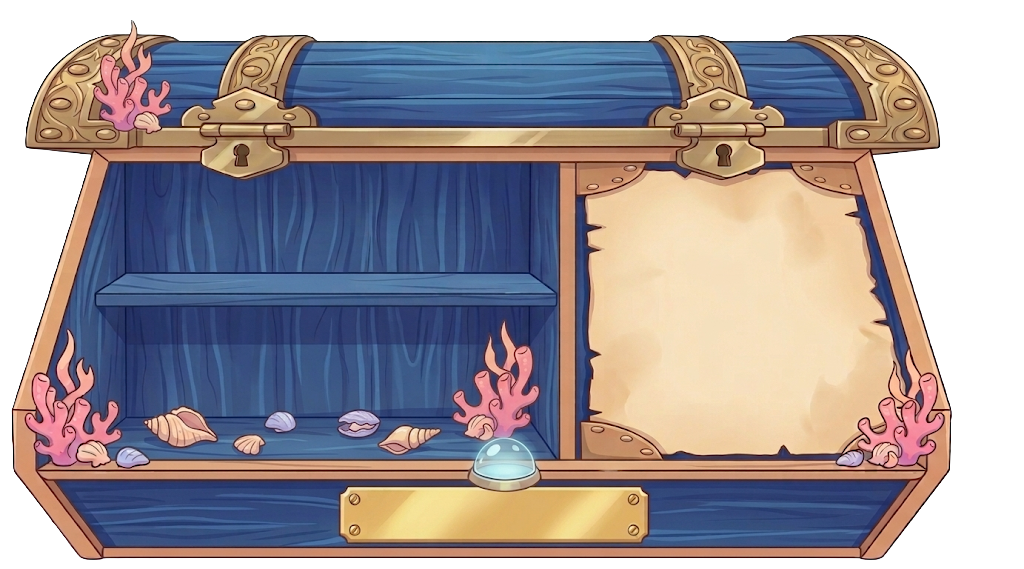
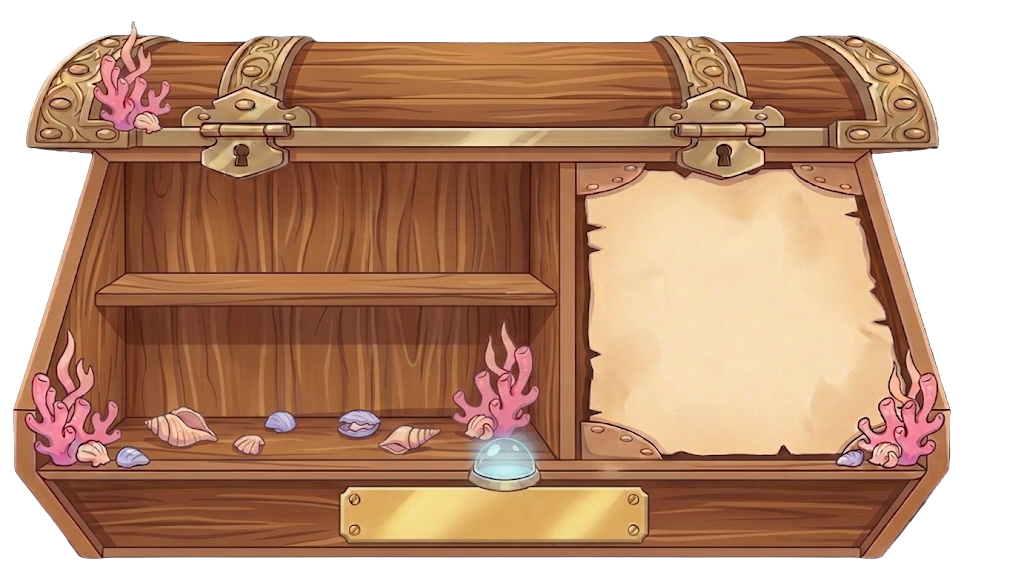
Changed inventory panel color

diff --git a/Assets/Scripts/InventoryManager.cs b/Assets/Scripts/InventoryManager.cs
@@ -180,15 +180,15 @@ public class InventoryManager : MonoBehaviour
       else
          CraftWindow.gameObject.SetActive(false);
 
-      pearlCount         = 5000;
-      oreCount           = 5000;
-      crudeToolCount     = 5000;
-      harpoonCount       = 5000;
-      patchKitCount      = 5000;
-      pressureValveCount = 5000;
-      divingBellCount    = 5000;
-      precisionLensCount = 5000;
-      engineCount        = 5000;
+      pearlCount         = 0;
+      oreCount           = 0;
+      crudeToolCount     = 0;
+      harpoonCount       = 0;
+      patchKitCount      = 0;
+      pressureValveCount = 0;
+      divingBellCount    = 0;
+      precisionLensCount = 0;
+      engineCount        = 0;
    }
 
    /* Creates the display elements for Pearls and Crystals on the inventory panel. */
